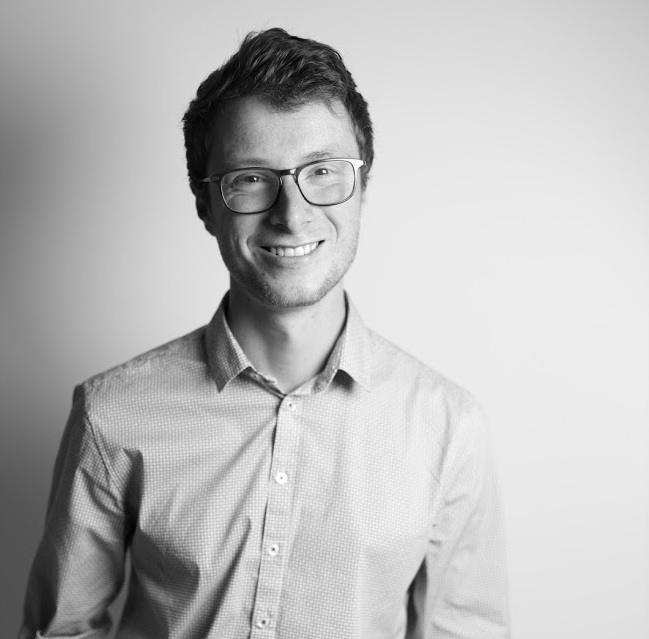
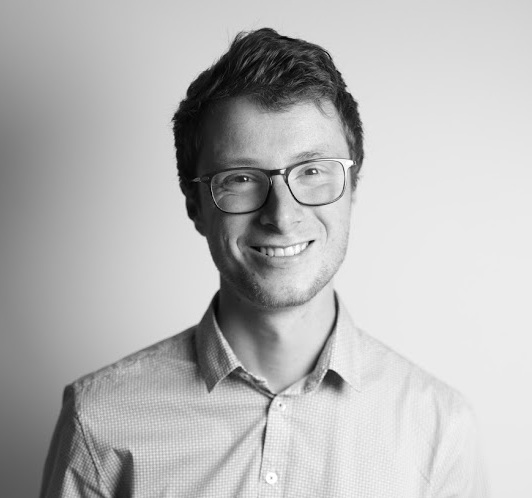
Changed flags dimensions and profile picture

diff --git a/portfolio/templates/index.html b/portfolio/templates/index.html
@@ -5,8 +5,8 @@
 {% load static %}
 <div class="grid gap-8 lg:gap-16 grid-cols-1 lg:grid-cols-2">
     <div class='bg-white row-start-1 lg:col-start-1 shadow w-full mx-auto p-4 lg:row-span-2'>
-        <img src="{% static 'profile.jpeg' %}" alt='profile image' class="shadow rounded-full w-5/6 lg:w-3/4 h-auto mx-auto border-none">
-        <div class='font-bold text-center text-2xl md:text-3xl mt-4'>Pierre MERLET</div>
+        <img src="{% static 'profile.jpeg' %}" alt='profile image' class="shadow rounded-full h-3/4 my-auto mx-auto border-none">
+        <div class='font-bold text-center text-2xl md:text-3xl mt-4 md:mt-8'>Pierre MERLET</div>
         <div class='text-center text-xl lg:text-2xl'>Data Analyst</div>
     </div>
 
@@ -42,11 +42,14 @@
         <div class='flex flex-col bg-white shadow h-2/3 w-full text-black md:text-base lg:text-xl py-2'>
             <span class='font-extrabold mx-auto md:py-2'>languages spoken</span>
             <div class='flex flex-row place-content-center space-x-8 lg:space-x-12 h-2/3 w-full text-black md:text-base py-2'>
-                <p class='flex flex-col h-2/3 my-auto'><img src="{% static 'france-ico.png' %}" alt='French' class='h-8 md:h-12 md:w-1/2 mx-auto rounded my-auto'>
+                <p class='flex flex-col h-2/3 justify-between h-full'>
+                    <img src="{% static 'france-ico.png' %}" alt='French' class='h-auto w-12 md:w-16 mx-auto rounded'>
                     <span class='hidden md:block md:pt-2'>Mother tongue</span></p>
-                <p class='flex flex-col h-2/3 my-auto'><img src="{% static 'italy-ico.jpeg' %}" alt='Italian' class='h-8 md:h-11 md:w-1/2 mx-auto rounded my-auto'>
+                <p class='flex flex-col h-2/3 justify-between h-full'>
+                    <img src="{% static 'italy-ico.jpeg' %}" alt='Italian' class='h-auto w-12 md:w-16 mx-auto rounded'>
                     <span class='hidden md:block md:pt-2'>Business Fluent</span></p>
-                <p class='flex flex-col h-2/3 my-auto'><img src="{% static 'english-ico.png' %}" alt='English' class='h-8 md:h-12 md:w-1/2 mx-auto rounded my-auto'>
+                <p class='flex flex-col h-2/3 justify-between h-full'>
+                    <img src="{% static 'english-ico.png' %}" alt='English' class='h-auto w-12 md:w-16 mx-auto rounded'>
                     <span class='hidden md:block md:pt-2'>Business Fluent</span></p>
             </div>
         </div>
